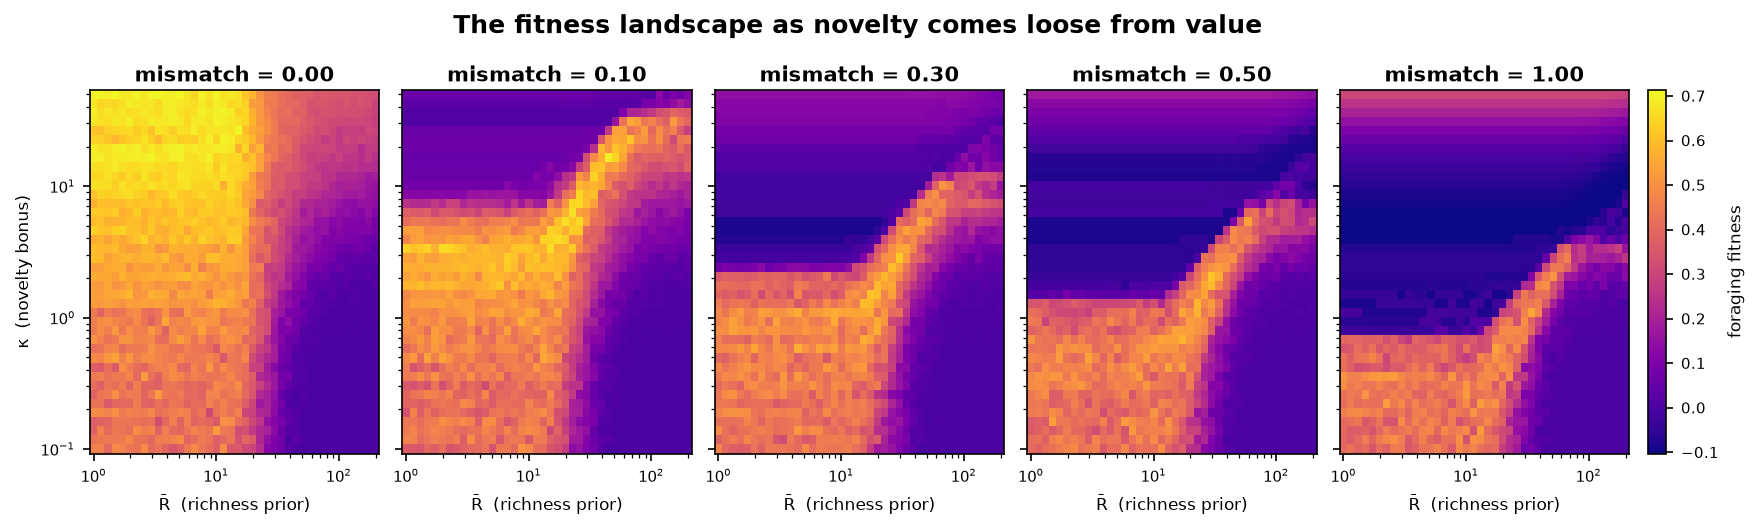
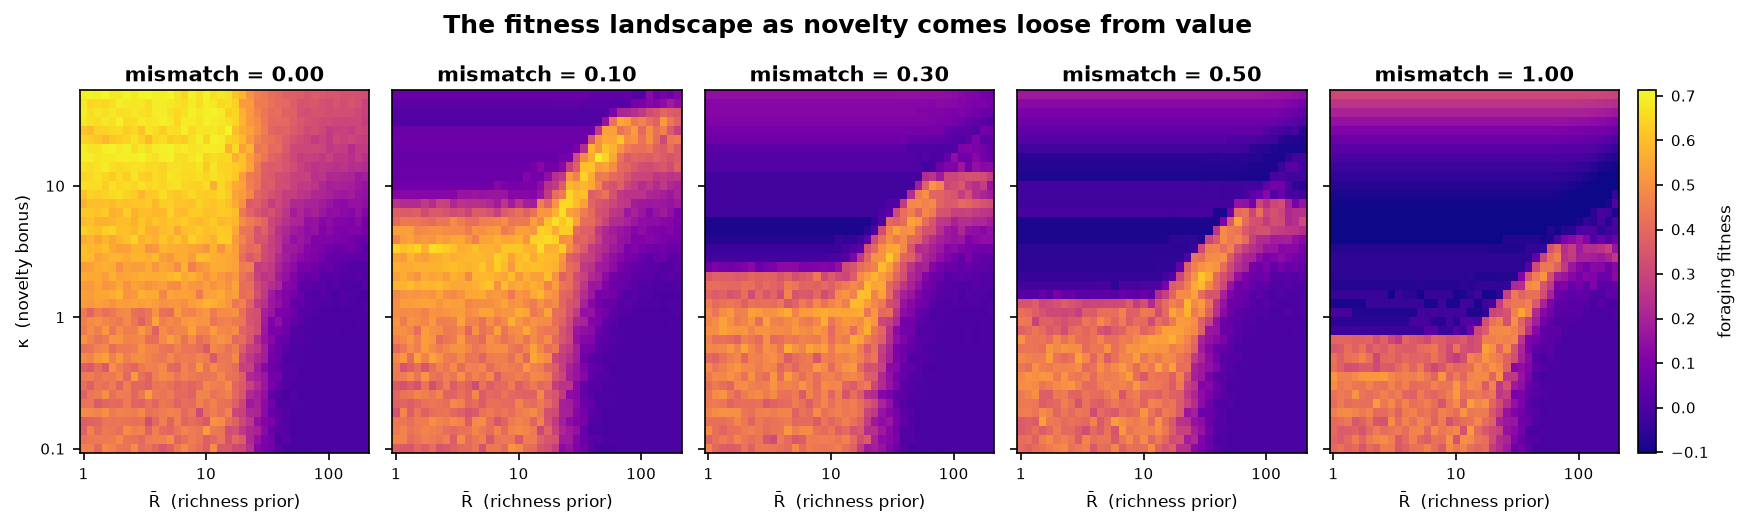
readme results, licence, ready for public

diff --git a/scripts/render_landscapes.py b/scripts/render_landscapes.py
@@ -11,6 +11,7 @@ import numpy as np
 import matplotlib
 matplotlib.use('Agg')
 import matplotlib.pyplot as plt
+from matplotlib.ticker import FuncFormatter, NullFormatter
 
 
 def cell_edges(axis, log):
@@ -21,7 +22,7 @@ def cell_edges(axis, log):
     return np.exp(edges) if log else edges
 
 
-def render(stack_path, out_path, rungs_wanted=None):
+def render(stack_path, out_path, rungs_wanted=None, even=False):
     z = np.load(stack_path)
     R = z['R_bar']; K = z['kappa']; F = z['F']; rungs = z['rungs']
     log = 'spacing' in z.files and str(z['spacing']) == 'log'
@@ -39,6 +40,7 @@ def render(stack_path, out_path, rungs_wanted=None):
 
     vmin = float(z['global_vmin']); vmax = float(z['global_vmax'])
     Re, Ke = cell_edges(R, log), cell_edges(K, log)
+    plot_log = log and not even   # 'even' = plain linear axes (old poster style)
 
     n = len(show)
     fig, axes = plt.subplots(1, n, figsize=(2.55 * n + 0.9, 3.15),
@@ -49,8 +51,14 @@ def render(stack_path, out_path, rungs_wanted=None):
     for ax, i in zip(axes, show):
         im = ax.pcolormesh(Re, Ke, F[i].T, cmap='plasma', vmin=vmin, vmax=vmax,
                            shading='flat')
-        if log:
+        if even:
+            ax.set_xlim(0, 200); ax.set_ylim(0, 50)
+        if plot_log:
             ax.set_xscale('log'); ax.set_yscale('log')
+            for axis in (ax.xaxis, ax.yaxis):
+                axis.set_major_formatter(FuncFormatter(lambda v, _: f'{v:g}'))
+                axis.set_minor_formatter(NullFormatter())
+            ax.tick_params(which='minor', length=0)
         ax.set_title(f'mismatch = {rungs[i]:.2f}', fontsize=10, weight='bold', pad=4)
         ax.set_xlabel('R̄  (richness prior)', fontsize=8)
         if ax is axes[0]:
@@ -74,6 +82,7 @@ if __name__ == '__main__':
     p = argparse.ArgumentParser(description='Render the landscape filmstrip')
     p.add_argument('--stack', default='results/ladder_res40/ladder_stack.npz')
     p.add_argument('--out', default='results/landscapes.png')
+    p.add_argument('--even', action='store_true', help='linear axes, R 0-200, kappa 0-50')
     p.add_argument('--rungs', type=float, nargs='+', default=None)
     a = p.parse_args()
-    render(a.stack, a.out, a.rungs)
+    render(a.stack, a.out, a.rungs, a.even)

diff --git a/scripts/world.py b/scripts/world.py
@@ -187,8 +187,8 @@ class World:
         # _sample_position keeps a new patch away from the ones already in
         # self.patches. The poster runs built all the starting patches in one go,
         # before any were in self.patches, so they were not spaced from each other
-        # (respawns always were). space_initial_patches=False does the same and
-        # reproduces the poster numbers exactly.
+        # (respawns always were). space_initial_patches=False does the same; every
+        # script here passes it, so the stored landscapes were computed that way.
         self.patches: List[Patch] = []
         if space_initial_patches:
             for _ in range(self.n_patches):

diff --git a/README.md b/README.md
@@ -51,11 +51,13 @@ same map at every `m`, so the levels are compared on identical worlds.
 `tests/test_pure_mismatch.py` checks this.
 
 When `V` crosses threshold the neuron spikes, and each spike takes a bite of real value
-from the patch. While the forager sits on a patch, `β` grows by how far the patch falls
-short of what the forager expects from the environment (`R̄ − I`). Once `β` catches up
-with the scent, the neuron goes quiet and the forager wanders off to look for another
-patch. At `m = 0` an emptied patch stops smelling novel, so the forager leaves on time.
-At `m = 1` it still smells novel, and only `β` can pull the forager away.
+from the patch. Firing needs a net drive `I − β` of at least 10. While the forager sits
+on a patch, `β` grows only when the scent falls short of what the forager expects from
+the environment (`I < R̄`). So the forager stops biting and wanders off once the scent
+drops below the larger of 10 and `R̄`: the firing threshold ends the visit for foragers
+with `R̄` below 10, and `β` ends it for foragers with `R̄` above 10. At `m = 0` an emptied
+patch stops smelling novel, so its scent falls and the forager leaves. At `m = 1` it
+still smells novel, so a forager with a large `κ` can keep firing on an empty patch.
 
 Each forager has two heritable traits:
 
@@ -79,7 +81,41 @@ with the best genome in the biological box (`R̄ ≤ 25`, `κ ≤ 15`) at each l
 re-scored on held-out worlds, so the best genome isn't flattered by having been picked
 as the luckiest of many noisy cells.
 
-*Results for this version of the model are being computed.*
+The numbers below come from the 40 × 40 ladder in `results/ladder_res40/`. A cell's
+standard error between worlds is typically 0.05.
+
+![Fitness landscapes](results/landscapes.png)
+
+When novelty tracks value (`m = 0`), strong novelty seeking does well, and the best `κ`
+inside the box sits at the box's edge. As mismatch rises, high `κ` becomes the worst part
+of the box. A sharp edge appears, with good strategies below it and fitness near or below
+zero above it, and the edge sinks as `m` grows.
+
+| mismatch `m`        | 0    | 0.05 | 0.10 | 0.20 | 0.30 | 0.50 | 0.75 | 1    |
+|---------------------|------|------|------|------|------|------|------|------|
+| best `κ` in the box | 14.0 | 11.9 | 5.4  | 2.1  | 1.5  | 1.3  | 0.49 | 0.58 |
+| its fitness         | 0.69 | 0.71 | 0.67 | 0.64 | 0.61 | 0.59 | 0.56 | 0.54 |
+
+Neighbouring cells at both ends score within noise of the best, so I read this as a 10-
+to 25-fold fall in the best novelty bonus, most of it within the first 20% of mismatch.
+The best `R̄` jumps around between levels because many values score about the same.
+
+Best fitness falls far less than the best `κ` does. A forager that barely uses novelty
+(the `κ = 0.1` row) scores 0.48–0.52 at every level, since the term that mismatch changes
+is multiplied by `κ`. As mismatch rises, the best strategy sinks towards that floor.
+
+![Mismatch load](results/mismatch_load.png)
+
+The ancestral-tuned genome is `R̄ = 8.7, κ = 2.98`. On 32 held-out worlds:
+
+| mismatch `m`     | 0.10  | 0.20  | 0.30  | 0.50  | 0.75  | 1     |
+|------------------|-------|-------|-------|-------|-------|-------|
+| ancestral-tuned  | 0.556 | 0.267 | 0.078 | 0.027 | 0.025 | 0.023 |
+| best in the box  | 0.564 | 0.471 | 0.562 | 0.500 | 0.470 | 0.501 |
+| mismatch load    | 0.008 | 0.204 | 0.484 | 0.473 | 0.445 | 0.478 |
+
+In its own world the ancestral genome does as well as anything in the box. By `m = 0.3`
+it scores close to zero, while the best available strategy still reaches about 0.5.
 
 ## Code
 
@@ -131,8 +167,8 @@ standard error, which the ladder file records.
 ## Model versions
 
 - **pure-v2** (this version). The mismatch changes only how novelty relates to value.
-- **poster-v1** (git tag `poster-v1`, outputs in `results/poster_v1/`). This is the printed
-  poster. As well as the novelty term, moving towards the modern world also raised the
+- **poster-v1** (outputs in `results/poster_v1/`; its code isn't in this repository).
+  This is the printed poster. As well as the novelty term, moving towards the modern world also raised the
   patch count from 3 to 5, cut each patch's value from 40 to 8, narrowed and flickered
   the scent, and made travel up to 4 times faster. Those changes made the modern world
   easier, and they are mixed into its results; pure-v2 removes them.
@@ -143,3 +179,7 @@ The main ones are Charnov (1976) for the leaving rule, Hayden et al. (2011) and
 Kolling et al. (2012) for the neuron, Monosov (2024) for curiosity, and De Block &
 Du Laing (2010) for supernormal stimuli. The full list is in
 [docs/references.md](docs/references.md).
+
+## Licence
+
+MIT, see [LICENSE](LICENSE).
